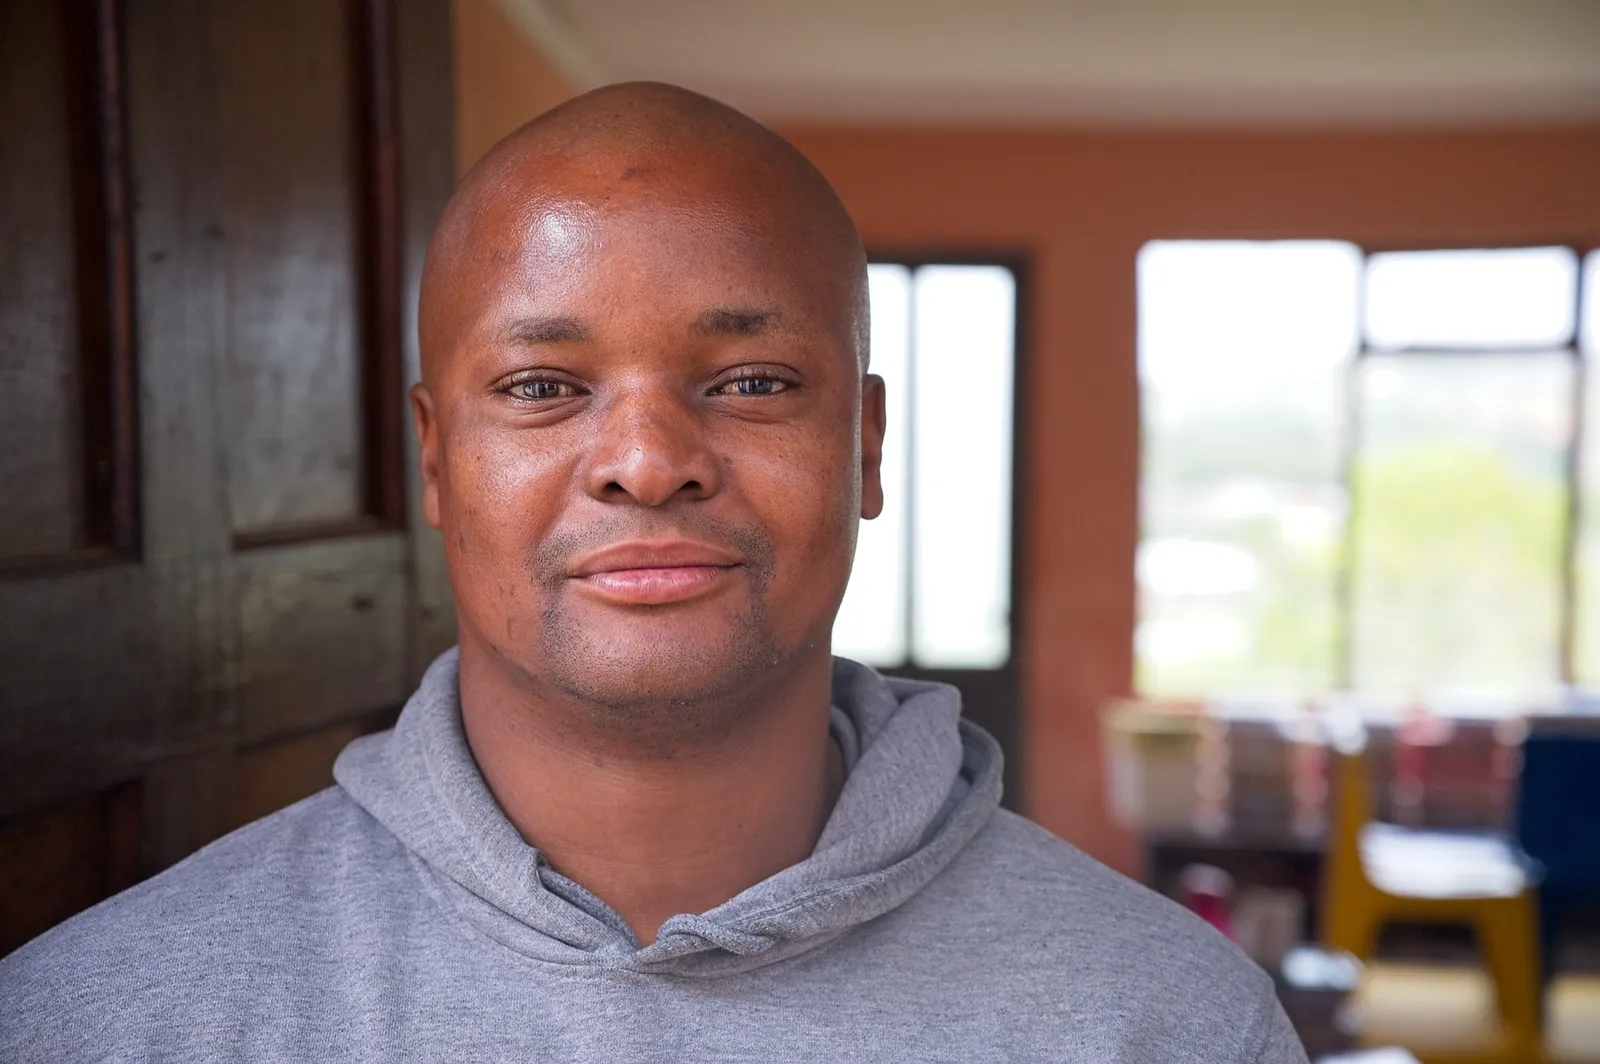
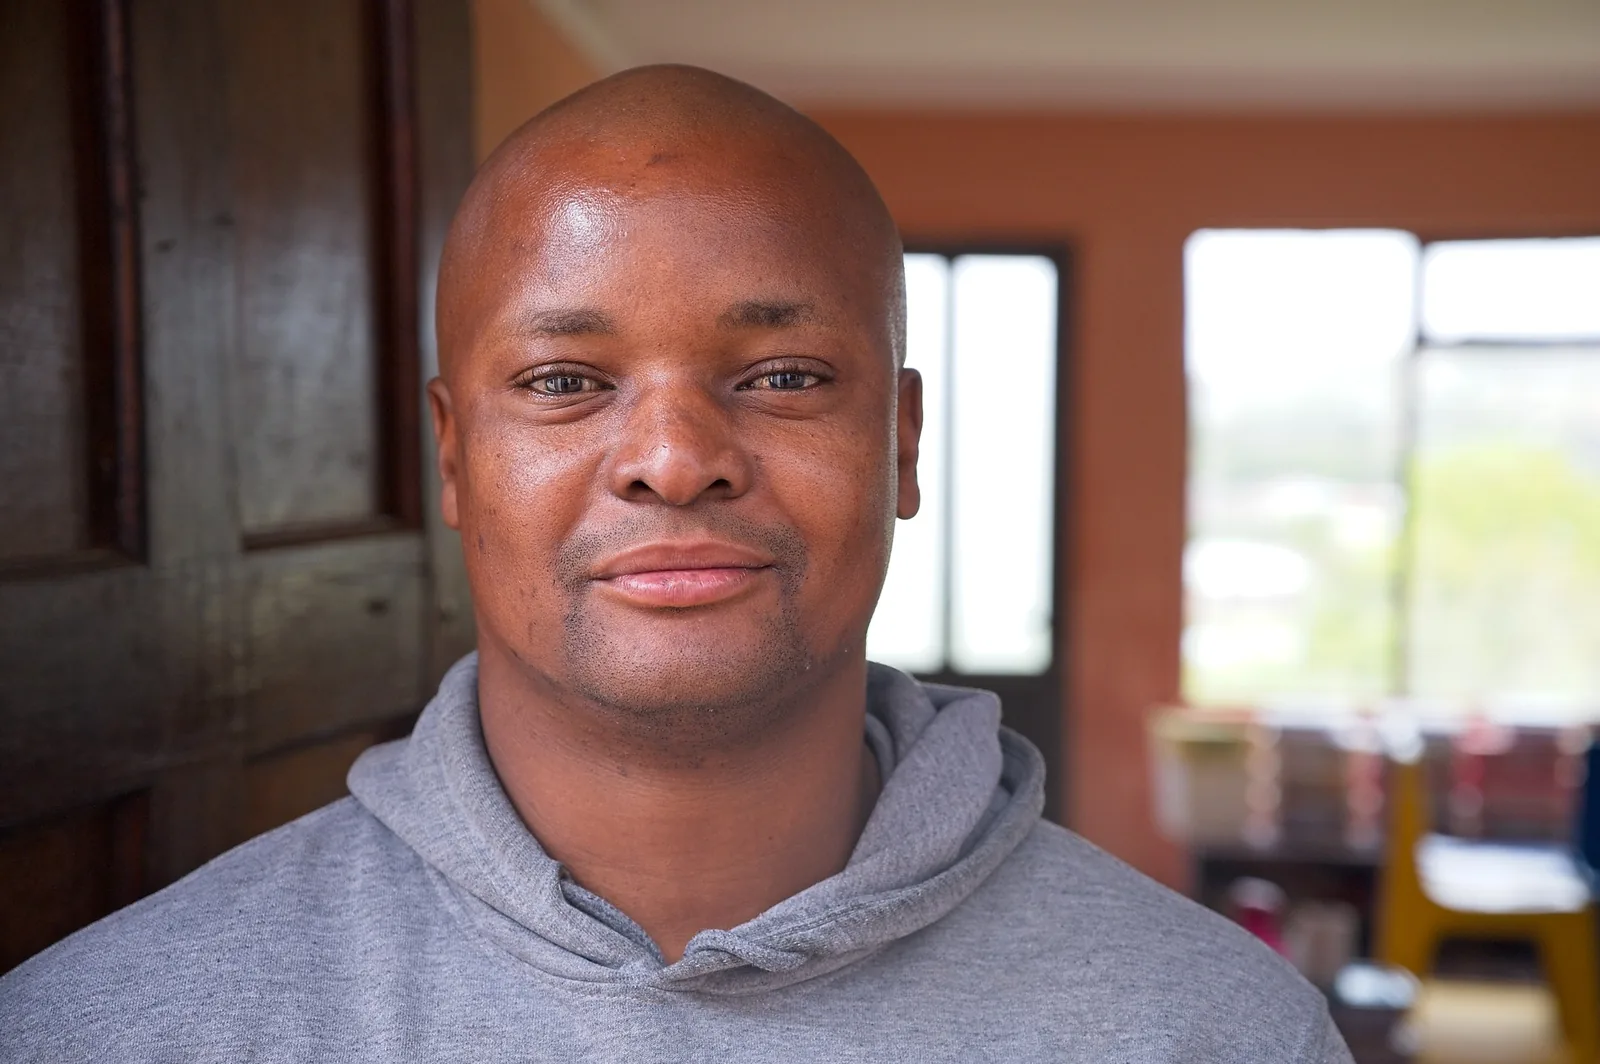
fix: story photos — real portrait for Nontutuzelo, recentred Audery and Msizi
Franc's audit of the six story photos, acted on.

NONTUTUZELO was illustrated with truenorth-hero.webp, a photograph of an ECD
centre. Its own alt text said so: "A True North ECD centre in Vrygrond". The
story names a person and showed a building. Replaced with the portrait Franc
supplied, cropped to 1600x1064 to match its siblings, biased up so she keeps
headroom.

AUDERY and MSIZI were both cut awkwardly, and the cause was the same for both:
each sits LEFT of centre in their frame. Mobile crops the sides gently and looks
fine, but the desktop photo column is tall and narrow, so cover keeps only the
middle strip and takes a slice out of the person. Re-cropped from the original
frames in STORIES PICS so each subject is centred, which makes any cover crop
safe rather than relying on the box staying a particular shape. Verified by
rendering both at a tall desktop box and a 4:3 mobile box before committing.

Filenames unchanged for those two, so the src carries ?v=2 the way the bento
images already do. Originals copied into .image-originals alongside the others.

NOT FIXED, awaiting a photograph from Franc: NOSIPHO still uses
siyakwazi-hero.webp, which shows children at a table and not Nosipho Gasa. The
alt text describes "a Siyakwazi therapist", so the page currently illustrates a
named person with someone else. Worth treating as the next one to land.

VISIBLE COPY: one alt text changed, from a description of a building to
[…]

diff --git a/impact-stories.html b/impact-stories.html
@@ -174,7 +174,7 @@
         <!-- Story 2: Msizi Buthelezi -->
         <article class="story-editorial reveal" id="msizi">
           <div class="story-editorial__photo">
-            <img src="images/story-msizi.webp" alt="Msizi Buthelezi, supporter of Siyabonga ECD centre" loading="lazy" draggable="false">
+            <img src="images/story-msizi.webp?v=2" alt="Msizi Buthelezi, supporter of Siyabonga ECD centre" loading="lazy" draggable="false">
           </div>
           <div class="story-editorial__inner">
             <p class="story-editorial__org">Siyabonga</p>
@@ -198,7 +198,7 @@
         <!-- Story 3: Nontutuzelo Mrhoxiso (portrait pending from team) -->
         <article class="story-editorial reveal" id="nontutuzelo">
           <div class="story-editorial__photo">
-            <img src="images/truenorth-hero.webp" alt="A True North ECD centre in Vrygrond, Cape Town" loading="lazy" draggable="false">
+            <img src="images/story-nontutuzelo.webp" alt="Nontutuzelo Mrhoxiso, True North" loading="lazy" draggable="false">
           </div>
           <div class="story-editorial__inner">
             <p class="story-editorial__org">True North</p>
@@ -233,7 +233,7 @@
         <!-- Story 4: Audery February -->
         <article class="story-editorial reveal" id="audery">
           <div class="story-editorial__photo">
-            <img src="images/story-audery.webp" alt="Audery February, BRAVE leadership team" loading="lazy" draggable="false">
+            <img src="images/story-audery.webp?v=2" alt="Audery February, BRAVE leadership team" loading="lazy" draggable="false">
           </div>
           <div class="story-editorial__inner">
             <p class="story-editorial__org">BRAVE</p>
